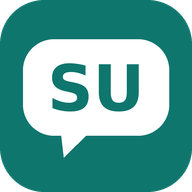
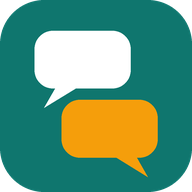
Icono definitivo: dos burbujas de conversacion

diff --git a/sw.js b/sw.js
@@ -11,7 +11,7 @@
    petición que no sea a este mismo sitio.
    ============================================================ */
 
-const VERSION = 'speakup-v7';
+const VERSION = 'speakup-v8';
 
 const ESENCIALES = [
   './',
